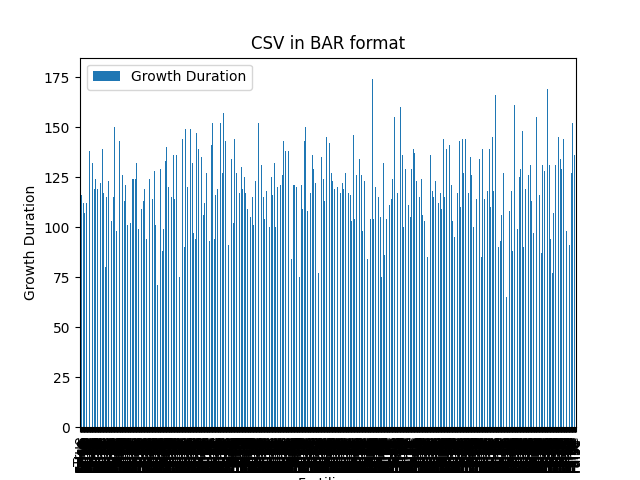
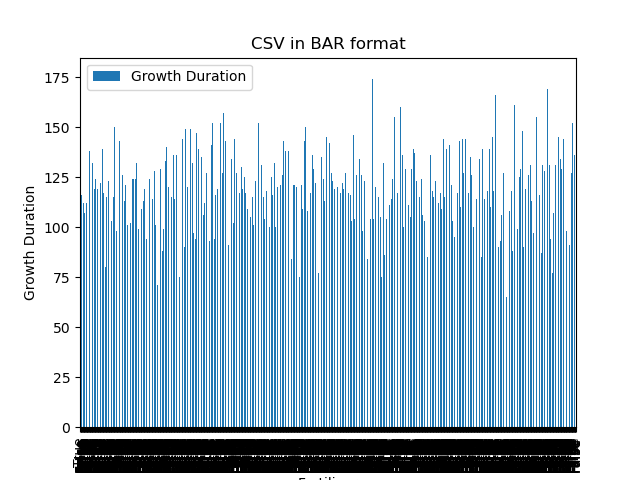
Commit

diff --git a/Data_Simplified.py b/Data_Simplified.py
@@ -1,0 +1,101 @@
+from flask import Flask, render_template, request, url_for, redirect, session, jsonify
+from datetime import timedelta
+import os
+import pandas as pd
+import matplotlib
+matplotlib.use('Agg')
+import matplotlib.pyplot as plt
+
+app = Flask(__name__)
+app.secret_key = 'your_secret_key'
+app.config['UPLOAD_FOLDER'] = 'uploads'
+app.config['SESSION_FILE_DIR'] = '/Users/suveer/Desktop/New/My_App'
+app.config['PERMANENT_SESSION_LIFETIME'] = timedelta(hours=4)
+
+# Ensure directories exist
+if not os.path.exists(app.config['UPLOAD_FOLDER']):
+    os.makedirs(app.config['UPLOAD_FOLDER'])
+if not os.path.exists('static'):
+    os.makedirs('static')
+
+@app.route("/")
+def direct():
+    session.permanent = True
+    session.clear()
+    return render_template('home.html')  
+
+@app.route("/upload", methods=["GET", "POST"])
+def upload():
+    if request.method == "POST":
+        file = request.files.get('file')
+        if file and file.filename.endswith('csv'):
+            file_path = os.path.join(app.config['UPLOAD_FOLDER'], file.filename)
+            file.save(file_path)
+            if os.path.getsize(file_path) == 0:
+                return "Empty", 400
+
+            try:
+                df = pd.read_csv(file_path) 
+                session['csv_data'] = df.to_dict(orient='records')
+                return redirect(url_for('process_data'))  # Redirect to process_data
+
+            except Exception as e:
+                return f"Error processing CSV file: {str(e)}", 500
+    return render_template('upload.html')
+
+@app.route("/process", methods=["GET"])
+def process_data():
+    csv_data = session.get('csv_data', {})
+    if not csv_data:
+        return jsonify({"error": "No data to process"}), 400
+
+    df = pd.DataFrame.from_dict(csv_data)
+    try:
+        # Generate bar plot
+        plt.figure(figsize=(10, 10))
+        df.plot(kind='bar', x=df.columns[0], y=df.columns[1:])
+        plt.title('CSV in BAR format')
+        plt.xlabel(df.columns[0])
+        plt.ylabel(df.columns[1])
+        bar_plot_path = 'static/bar_plot.png'  # Define the path for bar plot
+        plt.savefig(bar_plot_path)
+        plt.close()
+
+        # Generate histogram
+        plt.figure(figsize=(10, 10))
+        df.hist(bins=10)
+        plt.title('CSV histogram')
+        plt.xlabel(df.columns[0])
+        plt.ylabel('Frequency')
+        histogram_plot_path = 'static/histogram.png'  # Define the path for histogram
+        plt.savefig(histogram_plot_path)
+        plt.close()
+
+        # Store plot paths in session
+        session['bar_plot'] = bar_plot_path
+        session['histogram'] = histogram_plot_path
+
+        return redirect(url_for('display'))
+
+    except Exception as e:
+        return jsonify({"error": str(e)}), 500
+
+@app.route("/display")
+def display():
+    csv_data = session.get('csv_data', {})
+    if not csv_data:
+        return "No data to display", 400
+    df = pd.DataFrame.from_dict(csv_data)
+    rows = df.head().to_html()
+
+    # Retrieve plot paths from session
+    bar_plot = session.get('bar_plot')
+    histogram = session.get('histogram')
+
+    if not bar_plot or not histogram:
+        return "No plots to display", 400
+
+    return render_template("display.html", rows=rows, bar_plot=bar_plot, histogram=histogram)
+
+if __name__ == "__main__":
+    app.run(debug=True)

diff --git a/setup.py b/setup.py
@@ -1,8 +1,25 @@
-from setuptools import setup
+from setuptools import find_packages, setup
+from typing import List
+
+HYPEN_E_DOT='-e .'
+def get_requirements(file_path: str) -> List[str]:
+    '''
+    This function returns the list of requirements from a file.
+    '''
+    with open(file_path) as file_obj:
+        requirements = file_obj.readlines()
+        requirements = [req.strip() for req in requirements if req.strip() and not req.startswith("#")]
+        
+        if HYPEN_E_DOT in requirements:
+            requirements.remove()
+            
+    return requirements
 
 setup(
-    name="MyApp",
-    version="0.1",
-    packages=["myapp"],
-    install_requires=[],
+    name='ML Project',
+    version='0.0.1',
+    author='Suveer Upasani',
+    author_email='suveerupasani@gmail.com',
+    packages=find_packages(),
+    install_requires=get_requirements('requirements.txt'),
 )
